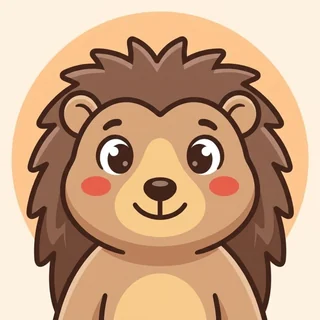
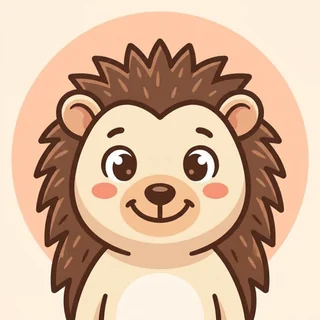
Új ikon: Alakzatok (jel nélkül), új Sün figura

diff --git a/sw.js b/sw.js
@@ -1,5 +1,5 @@
 /* Okos Kaland – service worker (automatikusan generálva: node tools/build-sw.js) */
-const CACHE = 'okos-kaland-202611220739';
+const CACHE = 'okos-kaland-202611220744';
 const FILES = ["./index.html",
   "./ro.html",
   "./en.html",
